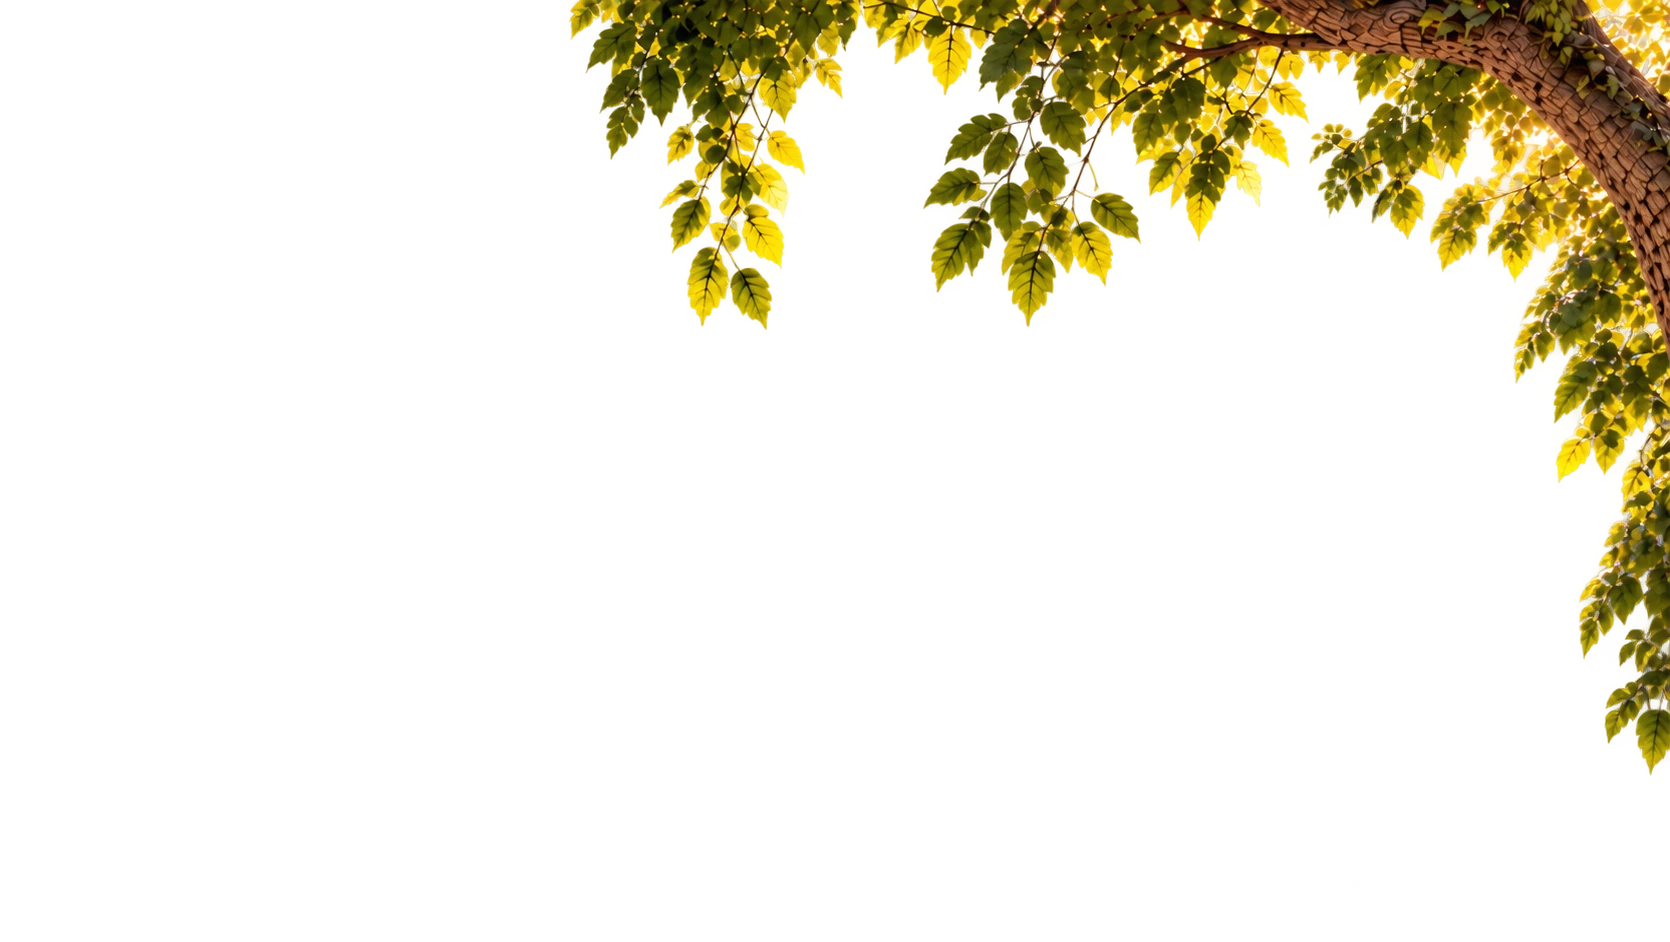
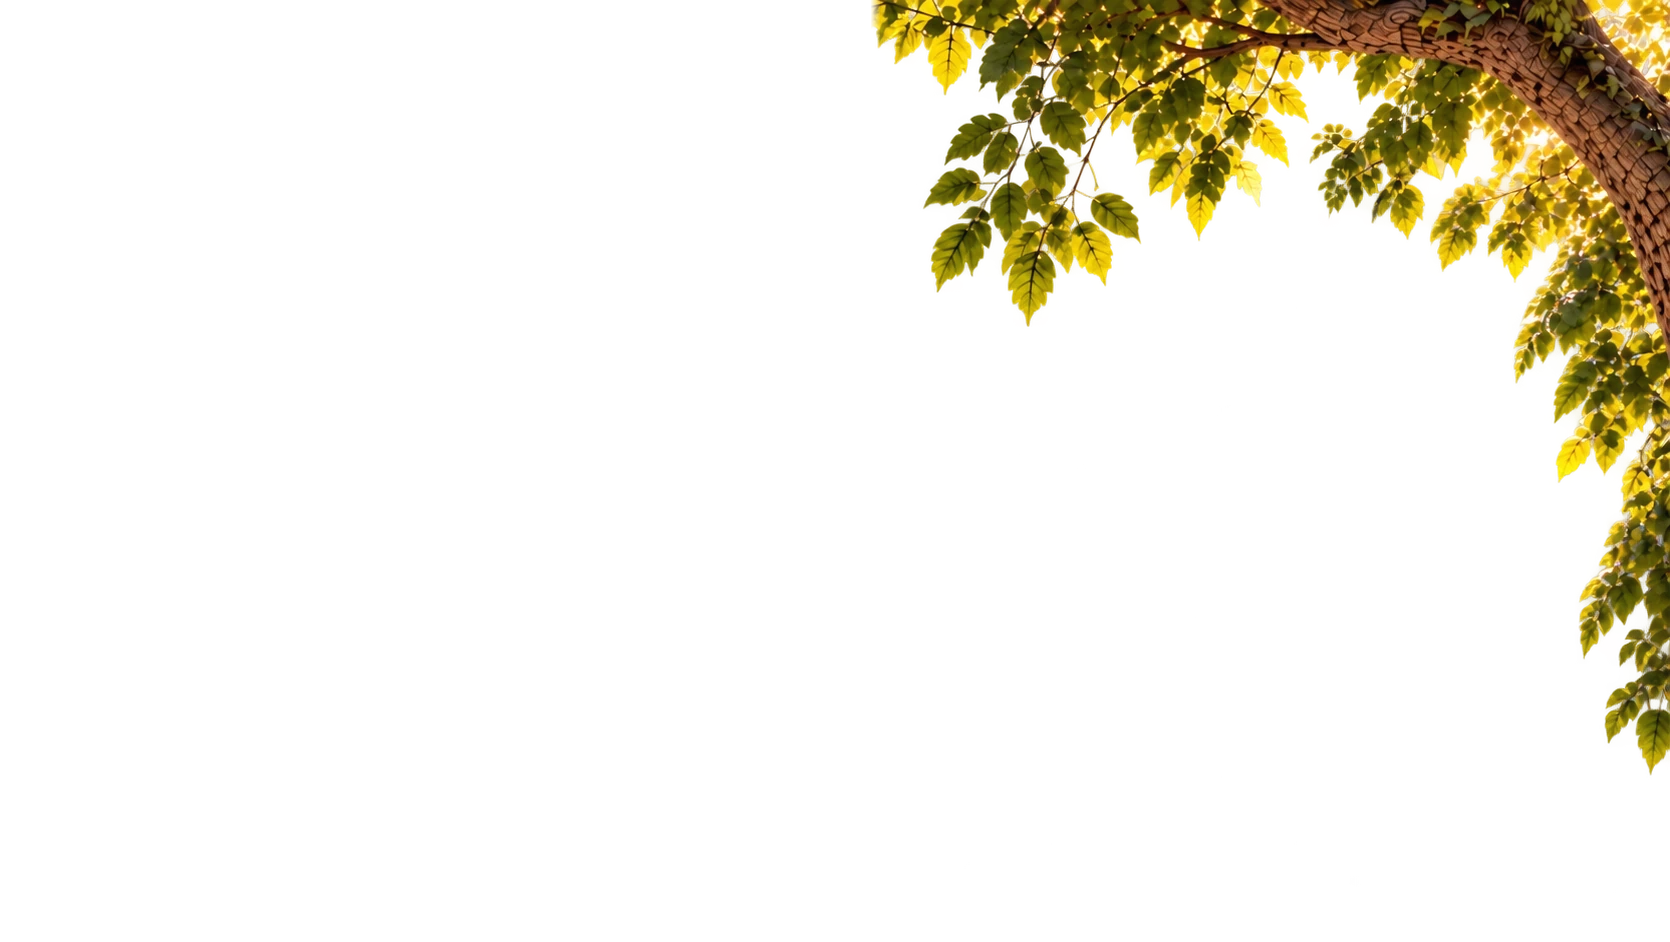
feat(landing): no leaves behind the hero's wall text

Changed region(s): [[0.3425, 0.0, 0.5293, 0.3386]]

diff --git a/frontend/src/app/[locale]/(marketing)/_components/HeroScene.tsx b/frontend/src/app/[locale]/(marketing)/_components/HeroScene.tsx
@@ -25,7 +25,7 @@ const DURATION_MS = 22800;
 const CAMERA_MS = 3960;
 const AIM = { x: 1227, y: 496 };
 // bump when the designer delivers corrected artwork, so no browser keeps an older cached copy
-const REV = "hero-2026-10-14e";
+const REV = "hero-2026-10-14f";
 const src = (name: string) => `/landing/hero-final/${name}.webp?v=${REV}`;
 
 const clamp01 = (x: number) => Math.max(0, Math.min(1, x));
